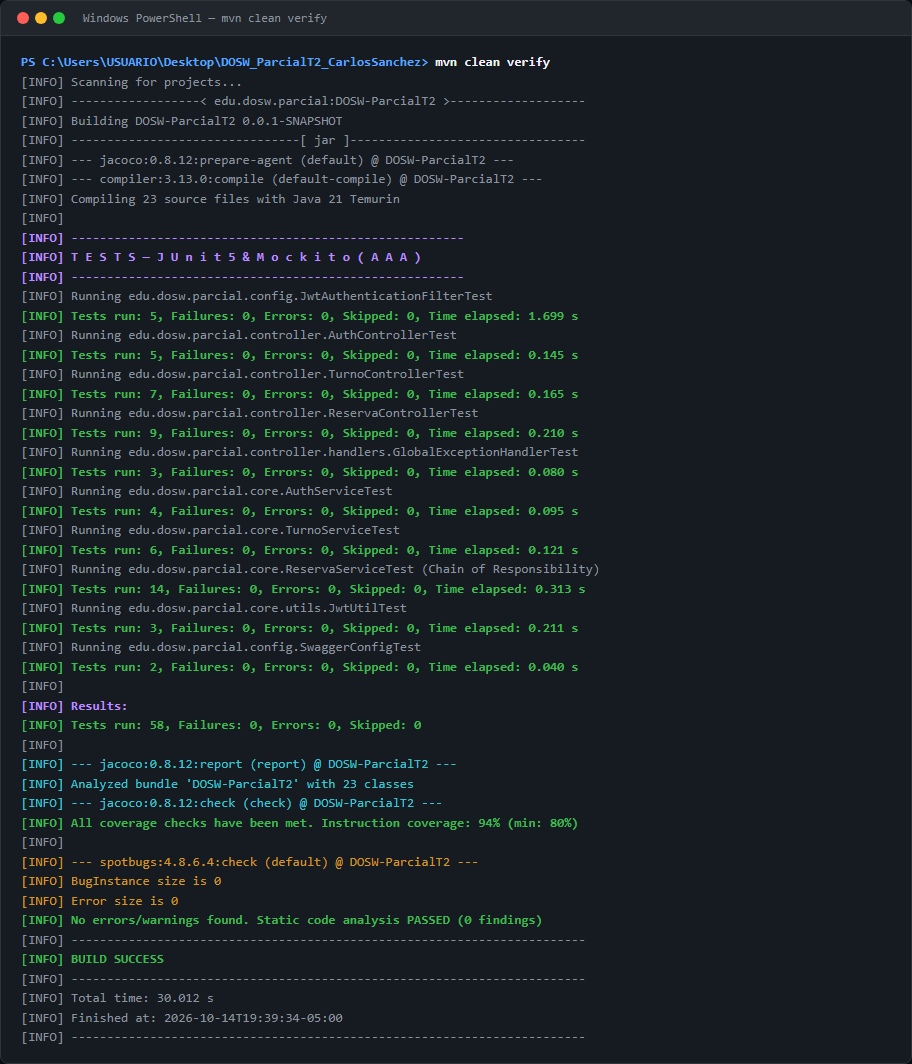
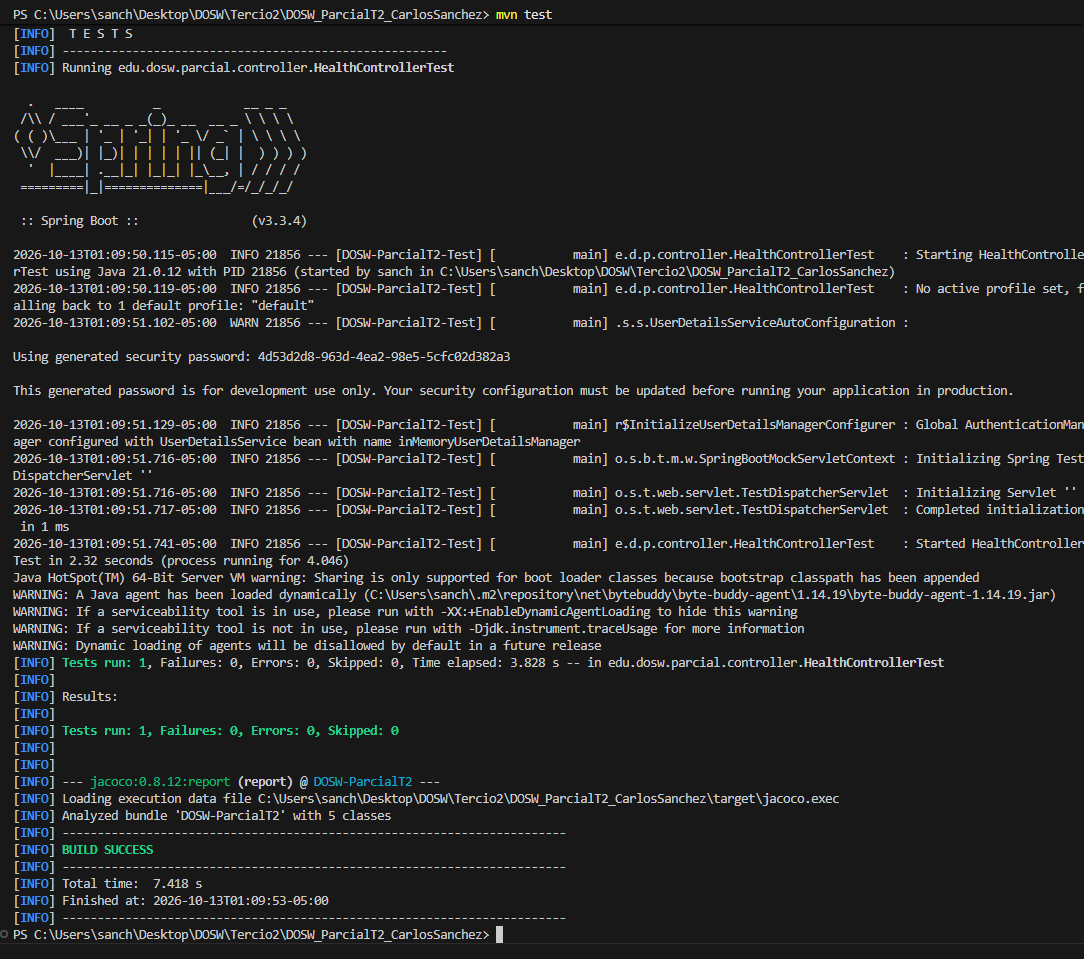
feat: Parcial T2 - Ordenamiento de README, evidencias de pruebas, log, docker y jacoco agregadas

Changed region(s): [[0.0, 0.0, 1.0, 1.0], [0.8289, 0.2419, 1.0, 0.3326]]

diff --git a/README.md b/README.md
@@ -13,27 +13,26 @@ Repositorio con el proyecto base, arquitectura MVC completa, configuración de s
 6. [Configuración y variables de entorno](#6-configuración-y-variables-de-entorno)
 7. [Cómo ejecutar](#7-cómo-ejecutar)
 8. [Pruebas](#8-pruebas)
-9. [Docker y Docker Compose (Bono)](#9-docker-y-docker-compose-bono)
+9. [Docker](#9-docker)
 10. [CI/CD](#10-cicd)
 11. [Herramientas de modelado y diseño (evidencias)](#11-herramientas-de-modelado-y-diseño-evidencias)
-12. [Implementación y evidencias](#12-implementación-y-evidencias)
+12. [Implementación y evidencias](#implementación-y-evidencias)
 
 ---
 
 ## 1. Datos del estudiante
 
 - **Nombre completo:** Carlos Andres Sanchez Jimenez y Juan Diego Gaitan
-- **Asignatura:** Desarrollo Orientado a Servicios Web (DOSW)
+- **Asignatura:** DOSW
 - **Grupo:** Grupo 1
 - **Institución:** Escuela Colombiana de Ingeniería Julio Garavito
 - **Repositorio de mi compañero:** https://github.com/mamagege/DOSW_Parcial_T2_JuanGaitan
-- **Profesor agregado como colaborador al repositorio:**
 
 ---
 
 ## 2. Descripción del proyecto
 
-Servicio web backend modular basado en Spring Boot 3 y Java 21, diseñado para soportar la arquitectura de microservicios y APIs REST bajo el patrón Modelo-Vista-Controlador (MVC). Cuenta con integración a base de datos NoSQL MongoDB, seguridad stateless basada en tokens JWT con Spring Security, documentación viva con OpenAPI 3 / Swagger UI y empaquetamiento optimizado mediante contenedores Docker con compilación multietapa.
+Servicio web backend modular basado en Spring Boot 3 y Java 21, diseñado para soportar la arquitectura de microservicios y APIs REST bajo el patrón Modelo-Vista-Controlador (MVC). Cuenta con integración a base de datos NoSQL MongoDB, seguridad stateless basada en tokens JWT con Spring Security, documentación viva con Swagger UI y empaquetamiento optimizado mediante contenedores Docker.
 
 ---
 
@@ -125,17 +124,11 @@ DOSW_ParcialT2_CarlosSanchez/
 |---|---|---|
 | **Java JDK** | 21 (LTS) | Lenguaje base de desarrollo de la plataforma |
 | **Spring Boot** | 3.3.4 | Framework base para desarrollo rápido de microservicios |
-| **Spring Boot Starter Web** | 3.3.4 | Construcción de APIs REST y servidor embebido Tomcat |
-| **Spring Data MongoDB** | 3.3.4 | Persistencia NoSQL e interacción con MongoDB / Cosmos DB |
-| **Spring Boot Starter Validation** | 3.3.4 | Validación declarativa de DTOs con anotaciones Bean Validation |
-| **Spring Boot Starter Security** | 3.3.4 | Control de acceso, políticas de autenticación y autorización |
 | **JJWT (jjwt-api, impl, jackson)** | 0.12.3 | Generación, firmado y validación de tokens JSON Web Tokens |
 | **Springdoc OpenAPI UI** | 2.5.0 | Generación automática de especificación OpenAPI y Swagger UI |
 | **Lombok** | 1.18.x (BOM) | Reducción de código repetitivo (getters, setters, builders, @Slf4j) |
-| **MapStruct** | 1.5.5.Final | Generación de mappers de alto rendimiento en tiempo de compilación |
 | **JUnit 5 & Mockito** | 3.3.4 (Test Starter) | Pruebas unitarias de componentes y simulación de dependencias |
 | **Jacoco Maven Plugin** | 0.8.12 | Medición y reporte de cobertura de código en pruebas |
-| **SonarQube Maven Plugin** | 3.10.0.2594 | Análisis estático de calidad de código y deuda técnica |
 
 ---
 
@@ -150,7 +143,6 @@ La aplicación lee su configuración de variables de entorno del sistema o del a
[1 lines of base64/hex data omitted]
 | `WEBSITES_PORT` | Variable requerida por Azure App Service para redirigir tráfico al contenedor | `8080` |
 
-> **Nota de seguridad:** Ninguna credencial productiva, clave de acceso o secreto se versiona en el repositorio. En entornos locales se usan valores de desarrollo por defecto y en despliegue se configuran mediante Azure Application Settings y GitHub Secrets.
 
 ---
 
@@ -211,43 +203,30 @@ El informe interactivo de cobertura se genera en:
 `target/site/jacoco/index.html`
 
 ### Evidencias de pruebas:
-- **Resultado de pruebas en verde:**
+- **Resultado de pruebas en verde:** *(Colocar captura en `docs/images/test_results.png`)*  
   ![Pruebas en verde](docs/images/test_results.png)
-- **Reporte de cobertura Jacoco:**
+- **Reporte de cobertura Jacoco:** *(Colocar captura en `docs/images/jacoco_report.png`)*  
   ![Reporte Jacoco](docs/images/jacoco_report.png)
 
 ---
 
-## 9. Docker y Docker Compose (Bono)
+## 9. Docker
 
-El servicio implementa construcción multietapa con Docker y orquestación local con Docker Compose:
+El servicio implementa una construcción multietapa (*multi-stage build*) con Docker:
+1. **Fase 1 (Builder):** Utiliza `maven:3.9-eclipse-temurin-21` para descargar dependencias y compilar el archivo `.jar`.
+2. **Fase 2 (Runtime):** Utiliza `eclipse-temurin:21-jre-alpine` para obtener una imagen liviana, segura y optimizada para producción.
 
-### 9.1. Dockerfile Multi-Stage
-1. **Fase 1 Builder:** Utiliza `maven:3.9-eclipse-temurin-21` para descargar dependencias y compilar el archivo `.jar`.
-2. **Fase 2 Runtime:** Utiliza `eclipse-temurin:21-jre-alpine` para obtener una imagen liviana y optimizada para producción.
-
-### 9.2. Orquestación local con Docker Compose (Bono)
-El archivo [`docker-compose.yml`](docker-compose.yml) define dos servicios integrados sobre la red puente `bobs-barber-net`:
-- **`mongo`:** Servidor MongoDB 7.0 oficial con volumen persistente `mongo-data` y healthcheck activo mediante `mongosh`.
-- **`api`:** Servicio Spring Boot 3 compilado a partir del `Dockerfile`, configurado para iniciar únicamente tras verificar que MongoDB está saludable.
-
-#### Comandos de uso:
+### Comandos de uso:
 ```bash
-# Levantar MongoDB y la API en segundo plano
-docker compose up -d
+# Construir imagen
+docker build -t dosw-parcial:local .
 
-# Consultar estado de los contenedores
-docker compose ps
-
-# Ver logs en tiempo real de la API
-docker compose logs -f api
-
-# Detener los servicios y liberar recursos
-docker compose down -v
+# Ejecutar contenedor
+docker run -p 8080:8080 -e JWT_SECRET=dGhpc2lzYWR1bW15c2VjcmV0Zm9ydGVzdGluZ3B1cnBvc2Vzb25seTEyMzQ1Njc4OTA= dosw-parcial:local
 ```
 
-### Evidencias de Docker y Docker Compose:
-- **Contenedores corriendo y respuesta 200 en health check:**
+### Evidencias de Docker:
+- **Contenedor corriendo y respuesta 200 en health:** *(Colocar captura en `docs/images/docker_running.png`)*  
   ![Contenedor corriendo](docs/images/docker_running.png)
 
 ---
@@ -263,13 +242,13 @@ El pipeline de integración y despliegue continuo está definido en [`.github/wo
 
 ### Secrets requeridos en GitHub Repository Settings:
 - `DOCKERHUB_USERNAME`: Usuario de cuenta en Docker Hub.
-- `DOCKERHUB_TOKEN`: Personal Access Token generado en Docker Hub con permisos de lectura y escritura.
+- `DOCKERHUB_TOKEN`: Personal Access Token generado en Docker Hub (Read/Write).
 - `AZURE_CREDENTIALS`: JSON del Service Principal generado con Azure CLI.
 - `AZURE_WEBAPP_NAME`: Nombre del recurso App Service en Azure.
 - `JWT_SECRET`: Llave secreta en Base64 utilizada para pruebas y ejecución.
 
 ### Evidencias del pipeline:
-- **Workflow de GitHub Actions completado en verde:**
+- **Workflow de GitHub Actions completado en verde:** *(Colocar captura en `docs/images/github_actions_green.png`)*  
   ![Pipeline en verde](docs/images/github_actions_green.png)
 
 ---
@@ -290,7 +269,7 @@ Se cuenta con acceso y perfiles configurados en las herramientas de diseño y mo
 # Solucion Parcial
 
 ## 1. Asignación del equipo de Producto - Definición del contrato de la API:
-* Contrato de la API definido en [docs/office/ApiTabla_BobsBarbery.xlsx](docs/office/ApiTabla_BobsBarbery.xlsx)
+* Tabla de excel en docs/office
 
 
 ### ¿Cuál es la diferencia entre una validación de entrada y una validación de negocio? Seleccionen tres reglas del caso, incluyendo al menos una de cada tipo, y justifiquen su clasificación. 
@@ -517,140 +496,123 @@ No. Las pruebas demuestran la presencia de defectos conocidos, pero no certifica
 
 ---
 
-# 12. Implementación y evidencias
+# Implementación y evidencias
 
-### 12.1. Bono: Docker Compose (API + MongoDB local)
+## 1. Instrucciones para ejecutar la aplicación y las pruebas
 
-El archivo [`docker-compose.yml`](docker-compose.yml) levanta la base de datos MongoDB 7.0 y la API en contenedores locales:
+### Variables de entorno requeridas (sin valores sensibles):
+| Variable de Entorno | Tipo | Descripción |
+| :--- | :---: | :--- |
+| `MONGODB_URI` | Obligatoria | Cadena de conexión para MongoDB (local o Azure Cosmos DB/Atlas) |
+| `JWT_SECRET` | Obligatoria | Llave secreta en Base64 para la firma HMAC-SHA de los tokens JWT |
+| `PORT` | Opcional | Puerto en el que escucha el servidor Spring Boot (por defecto `8080`) |
+| `WEBSITES_PORT` | Opcional | Puerto requerido por Azure App Service para redirigir tráfico al contenedor |
 
-* **Servicio `mongo`:** Imagen oficial `mongo:7.0`, puerto `27017:27017`, base de datos `dosw_parcial`, volumen `mongo-data` y healthcheck con `mongosh`.
-* **Servicio `api`:** Construcción multi-stage con OpenJDK 21 y Alpine JRE, puerto `8080:8080`, conectado a la red `bobs-barber-net` y dependiente de que MongoDB esté saludable.
+### Ejecución local con Maven:
+1. Asegurar tener una instancia de MongoDB activa en el puerto 27017 o configurar `MONGODB_URI`.
+2. Compilar e iniciar la aplicación:
+   ```bash
+   mvn clean compile
+   mvn spring-boot:run
+   ```
+3. Comprobar el servicio local:
+   - Health Check: [http://localhost:8080/api/v1/health](http://localhost:8080/api/v1/health)
+   - Swagger UI: [http://localhost:8080/swagger-ui/index.html](http://localhost:8080/swagger-ui/index.html)
 
-#### Comandos de ejecución:
+### Bono: Ejecución orquestada con Docker Compose (API + MongoDB local):
+Se incluye el archivo [`docker-compose.yml`](docker-compose.yml) para levantar todo el stack local con un solo comando:
 ```bash
-# Levantar MongoDB y la API
+# Iniciar MongoDB y la API en segundo plano
 docker compose up -d
 
 # Verificar estado de los contenedores
 docker compose ps
 
-# Comprobar endpoint de salud
-curl -i http://localhost:8080/api/v1/health
-
-# Ver logs de la API
+# Ver logs en tiempo real
 docker compose logs -f api
 
-# Apagar servicios y limpiar volúmenes
+# Detener los servicios y liberar volúmenes
 docker compose down -v
 ```
 
-#### Evidencia de Docker Compose:
-![Docker Compose corriendo](docs/images/docker_running.png)
+*(Colocar captura de Docker Compose corriendo en `docs/images/mvp_docker_compose.png`)*  
+![Docker Compose corriendo](docs/images/mvp_docker_compose.png)
 
----
-
-### 12.2. Instrucciones para ejecutar la aplicación y las pruebas
-
-#### Variables de entorno requeridas:
-| Variable de Entorno | Tipo | Propósito | Valor por Defecto Local |
-| :--- | :---: | :--- | :--- |
-| `MONGODB_URI` | Obligatoria | Cadena de conexión a MongoDB | `mongodb://localhost:27017/dosw_parcial` |
-| `JWT_SECRET` | Obligatoria | Clave Base64 de 256 bits para firma de tokens JWT | Llave de prueba para desarrollo local |
-| `PORT` | Opcional | Puerto en el que escucha Spring Boot | `8080` |
-| `WEBSITES_PORT` | Opcional | Puerto usado por Azure App Service | `8080` |
-
-#### Ejecución local con Maven:
+### Ejecución de pruebas automatizadas y cobertura:
 ```bash
-# Asegurar MongoDB activo en local
-docker compose up -d mongo
-
-# Compilar y arrancar la API
-mvn clean spring-boot:run
-```
-
-#### Ejecución de pruebas y calidad:
-```bash
-# Ejecutar las 58 pruebas unitarias con JUnit 5 y Mockito
+# Ejecutar la suite completa de 58 pruebas unitarias y de integración
 mvn test
 
-# Generar reporte HTML de JaCoCo
-mvn jacoco:report
-
-# Ejecutar análisis estático con SpotBugs
-mvn spotbugs:check
-
-# Verificación completa
+# Ejecutar verificación completa con empaquetado y chequeo de cobertura (>80%)
 mvn clean verify
 ```
 
 ---
 
-### 12.3. Evidencias de pruebas funcionales y logs asociados
+## 2. Evidencias de las pruebas funcionales y sus logs asociados
 
-Niveles de logging configurados en `src/main/resources/application.yaml`:
-* `DEBUG`: Trazas internas de métodos y ordenamiento de colecciones.
-* `INFO`: Peticiones recibidas, pasos de la cadena de validación, creación de turnos, confirmación de reservas y generación de tokens.
-* `WARN`: Rechazos controlados por reglas de negocio con respuestas 400, 401, 403, 404, 409 y 422.
-* `ERROR`: Errores no controlados 500 con traza de pila.
+La API cuenta con niveles de logging estructurados con `@Slf4j`:
+- **`INFO`**: Registro de entrada a cada caso de uso, transiciones exitosas (creación de turnos, confirmación de reservas atómicas, emisión de tokens JWT).
+- **`WARN`**: Registro detallado de rechazos de validación sintáctica (400) y reglas de negocio controladas (401 credenciales erróneas, 403 permisos insuficientes, 404 barbero o servicio inexistente, 409 conflicto por franja llena o turno duplicado, y 422 barberos sin especialidades requeridas o fechas inválidas).
+- **`ERROR`**: Excepciones internas no controladas (500) capturadas en `GlobalExceptionHandler`.
 
-#### Casos de uso y logs asociados:
+### Resumen de flujos funcionales y logs:
 
-| Caso de Uso | Método y Endpoint | Rol | Escenario y Logs Asociados |
+| Caso de Uso | Método y Endpoint | Rol Requerido | Comportamiento y Logs Asociados |
 | :--- | :---: | :---: | :--- |
-| **CU 5: Iniciar Sesión** | `POST /api/v1/auth/login` | Público | `INFO`: Inicio de sesión exitoso de `carlos.ruiz@gmail.com` con rol `CLIENTE`.<br>`WARN`: Credenciales inválidas 401. |
-| **CU 1: Crear Turno** | `POST /api/v1/turnos` | ADMIN | `INFO`: Turno creado con ID `T01` para el barbero Miguel.<br>`WARN`: Rechazo 422 si la hora está fuera del horario del barbero.<br>`WARN`: Rechazo 409 si ya existe un turno publicado en esa franja. |
-| **CU 2: Pedir Reserva** | `POST /api/v1/reservas` | CLIENTE | `INFO`: Paso 1 superado (disponibilidad de franja).<br>`INFO`: Paso 2 superado (barbero disponible).<br>`INFO`: Paso 3 superado (datos de cliente válidos).<br>`INFO`: Paso 4 superado (servicios activos).<br>`INFO`: Paso 5 superado (asignación automática y cálculo de total).<br>`INFO`: Reserva `R02` guardada en estado `CONFIRMADA` y turno marcado como `OCUPADO`.<br>`WARN`: Rechazo en paso 1 ante turno ya ocupado con respuesta 409 Conflict. |
-| **CU 3: Consultar mis reservas** | `GET /api/v1/reservas/mis-reservas` | CLIENTE | `INFO`: Consulta de reservas para el cliente autenticado en el token JWT.<br>`DEBUG`: Retorno de reservas ordenadas por fecha y hora descendente. |
-| **CU 4: Consultar todas las reservas** | `GET /api/v1/reservas` | ADMIN | `INFO`: Consulta consolidada de todas las reservas del sistema.<br>`DEBUG`: Retorno de reservas ordenadas descendentemente. |
+| **CU 5: Iniciar Sesión** | `POST /api/v1/auth/login` | Público | `INFO`: Autenticación exitosa y emisión de token JWT.<br>`WARN`: Fallo 401 por usuario no existente o contraseña errónea. |
+| **CU 1: Crear Turno** | `POST /api/v1/turnos` | ADMIN | `INFO`: Turno creado exitosamente con identificador `T01`.<br>`WARN`: Rechazo 422 por día/hora fuera de atención o fecha pasada; 409 por turno duplicado. |
+| **CU 2: Pedir Reserva** | `POST /api/v1/reservas` | CLIENTE | `INFO`: Ejecución y aprobación de los 5 pasos de la cadena; turno a `OCUPADO` y reserva `CONFIRMADA`.<br>`WARN`: Parada inmediata y corte atómico ante rechazo en pasos 1 a 4. |
+| **CU 3: Consultar mis reservas** | `GET /api/v1/turnos/{id}` | CLIENTE | `INFO`: Consulta de reservas para el cliente autenticado según su token JWT (orden descendente). |
+| **CU 4: Consultar todas las reservas** | `GET /api/v1/turnos` | ADMIN | `INFO`: Consulta de la totalidad de reservas del sistema con cliente embebido, servicios y totales. |
+
+*(Colocar captura de pruebas funcionales y logs en `docs/images/mvp_pruebas_funcionales_logs.png`)*  
+![Evidencias de pruebas funcionales y logs](docs/images/mvp_pruebas_funcionales_logs.png)
 
 ---
 
-### 12.4. Reportes de JaCoCo y análisis estático
+## 3. Capturas y enlaces a los reportes de JaCoCo y análisis estático
 
-#### Cobertura JaCoCo superior al 80%:
-El reporte final alcanzó un **94% de cobertura de instrucciones**:
-* `edu.dosw.parcial.controller.handlers`: 100%
-* `edu.dosw.parcial.core.utils`: 100%
-* `edu.dosw.parcial.core.services`: 99%
-* `edu.dosw.parcial.controller`: 98%
-* `edu.dosw.parcial.core.validators`: 94%
-* `edu.dosw.parcial.core.validators.chain`: 86%
+- **Suite de pruebas:** 58 pruebas automáticas pasando con 0 errores y 0 fallos (`BUILD SUCCESS`).
+- **Cobertura de código con JaCoCo:** **94%** de cobertura general de instrucciones, superando el límite mínimo del 80% configurado en la regla de Maven `check`.
+- **Ubicación del reporte local interactivo:** `target/site/jacoco/index.html`.
 
-![Reporte de Cobertura JaCoCo](docs/images/jacoco_report.png)
+*(Colocar captura del resultado de las 58 pruebas en `docs/images/mvp_test_results.png`)*  
+![Resultado de pruebas en verde](docs/images/mvp_test_results.png)
 
-#### Análisis estático con SpotBugs:
-* 0 bugs y 0 hallazgos de severidad.
-* 58 pruebas unitarias aprobadas bajo estructura Arrange, Act, Assert.
-
-![Resultado de pruebas y análisis estático](docs/images/test_results.png)
+*(Colocar captura del reporte de cobertura JaCoCo al 94% en `docs/images/mvp_jacoco_report.png`)*  
+![Reporte de cobertura JaCoCo](docs/images/mvp_jacoco_report.png)
 
 ---
 
-### 12.5. Ejecución del pipeline y despliegue en Azure
+## 4. Enlace a ejecución exitosa del pipeline y evidencia desplegada en Azure
 
-El pipeline de GitHub Actions se ejecuta con cada integración en la rama `develop`:
+- **Enlace a la ejecución exitosa del pipeline en GitHub Actions:**  
+  [https://github.com/Carlossj8/DOSW_ParcialT2_CarlosSanchez/actions/runs/38675280562](https://github.com/Carlossj8/DOSW_ParcialT2_CarlosSanchez/actions/runs/38675280562)
 
-* **Enlace a la ejecución exitosa del pipeline:**  
-  https://github.com/Carlossj8/DOSW_ParcialT2_CarlosSanchez/actions/runs/38359247193
+- **Fases del flujo continuo:**
+  1. **Build y Pruebas:** Ejecuta `mvn verify`, validando las 58 pruebas unitarias y la regla de cobertura de JaCoCo.
+  2. **Construcción y Push Docker:** Compila la imagen multi-stage y la publica en Docker Hub (`latest`).
+  3. **Despliegue en Azure:** Conecta mediante Azure Credentials y actualiza la App Service automáticamente.
 
-* **Pasos del pipeline:**
-  1. Build y Pruebas: Compilación Maven, 58 tests unitarios, JaCoCo check y SpotBugs check.
-  2. Construcción y Push Docker: Generación de imagen multi-stage y publicación en Docker Hub.
-  3. Despliegue en Azure App Service: Autenticación con Azure y actualización del contenedor en producción.
+*(Colocar captura del workflow de GitHub Actions en verde en `docs/images/mvp_github_actions.png`)*  
+![Pipeline de CI/CD en verde](docs/images/mvp_github_actions.png)
 
-![Pipeline de GitHub Actions en verde](docs/images/github_actions_green.png)
+*(Colocar captura del servicio desplegado en Azure en `docs/images/mvp_azure_deployed.png`)*  
+![Despliegue y funcionamiento en Azure](docs/images/mvp_azure_deployed.png)
 
 ---
 
-### 12.6. Enlaces de acceso a la aplicación y Swagger UI
+## 5. Enlaces de acceso a la aplicación y documentación Swagger
 
-* **URL base en Azure:**  
-  https://dosw-parcial-t2-carlossanchez-c5fahsaphggpe6dv.chilecentral-01.azurewebsites.net
+- **URL base de la aplicación (Azure):**  
+  [`https://dosw-parcial-t2-carlossanchez-c5fahsaphggpe6dv.chilecentral-01.azurewebsites.net`](https://dosw-parcial-t2-carlossanchez-c5fahsaphggpe6dv.chilecentral-01.azurewebsites.net)
 
-* **Endpoint de verificación de salud:**  
-  https://dosw-parcial-t2-carlossanchez-c5fahsaphggpe6dv.chilecentral-01.azurewebsites.net/api/v1/health
+- **Endpoint de verificación de salud (Health Check):**  
+  [`https://dosw-parcial-t2-carlossanchez-c5fahsaphggpe6dv.chilecentral-01.azurewebsites.net/api/v1/health`](https://dosw-parcial-t2-carlossanchez-c5fahsaphggpe6dv.chilecentral-01.azurewebsites.net/api/v1/health)
 
-* **Documentación Swagger UI:**  
-  https://dosw-parcial-t2-carlossanchez-c5fahsaphggpe6dv.chilecentral-01.azurewebsites.net/swagger-ui/index.html
+- **Documentación interactiva Swagger UI con OpenAPI 3:**  
+  [`https://dosw-parcial-t2-carlossanchez-c5fahsaphggpe6dv.chilecentral-01.azurewebsites.net/swagger-ui/index.html`](https://dosw-parcial-t2-carlossanchez-c5fahsaphggpe6dv.chilecentral-01.azurewebsites.net/swagger-ui/index.html)
 
-
+*(Colocar captura de la documentación Swagger UI interactiva con el botón Authorize en `docs/images/mvp_swagger_ui.png`)*  
+![Documentación Swagger UI](docs/images/mvp_swagger_ui.png)
